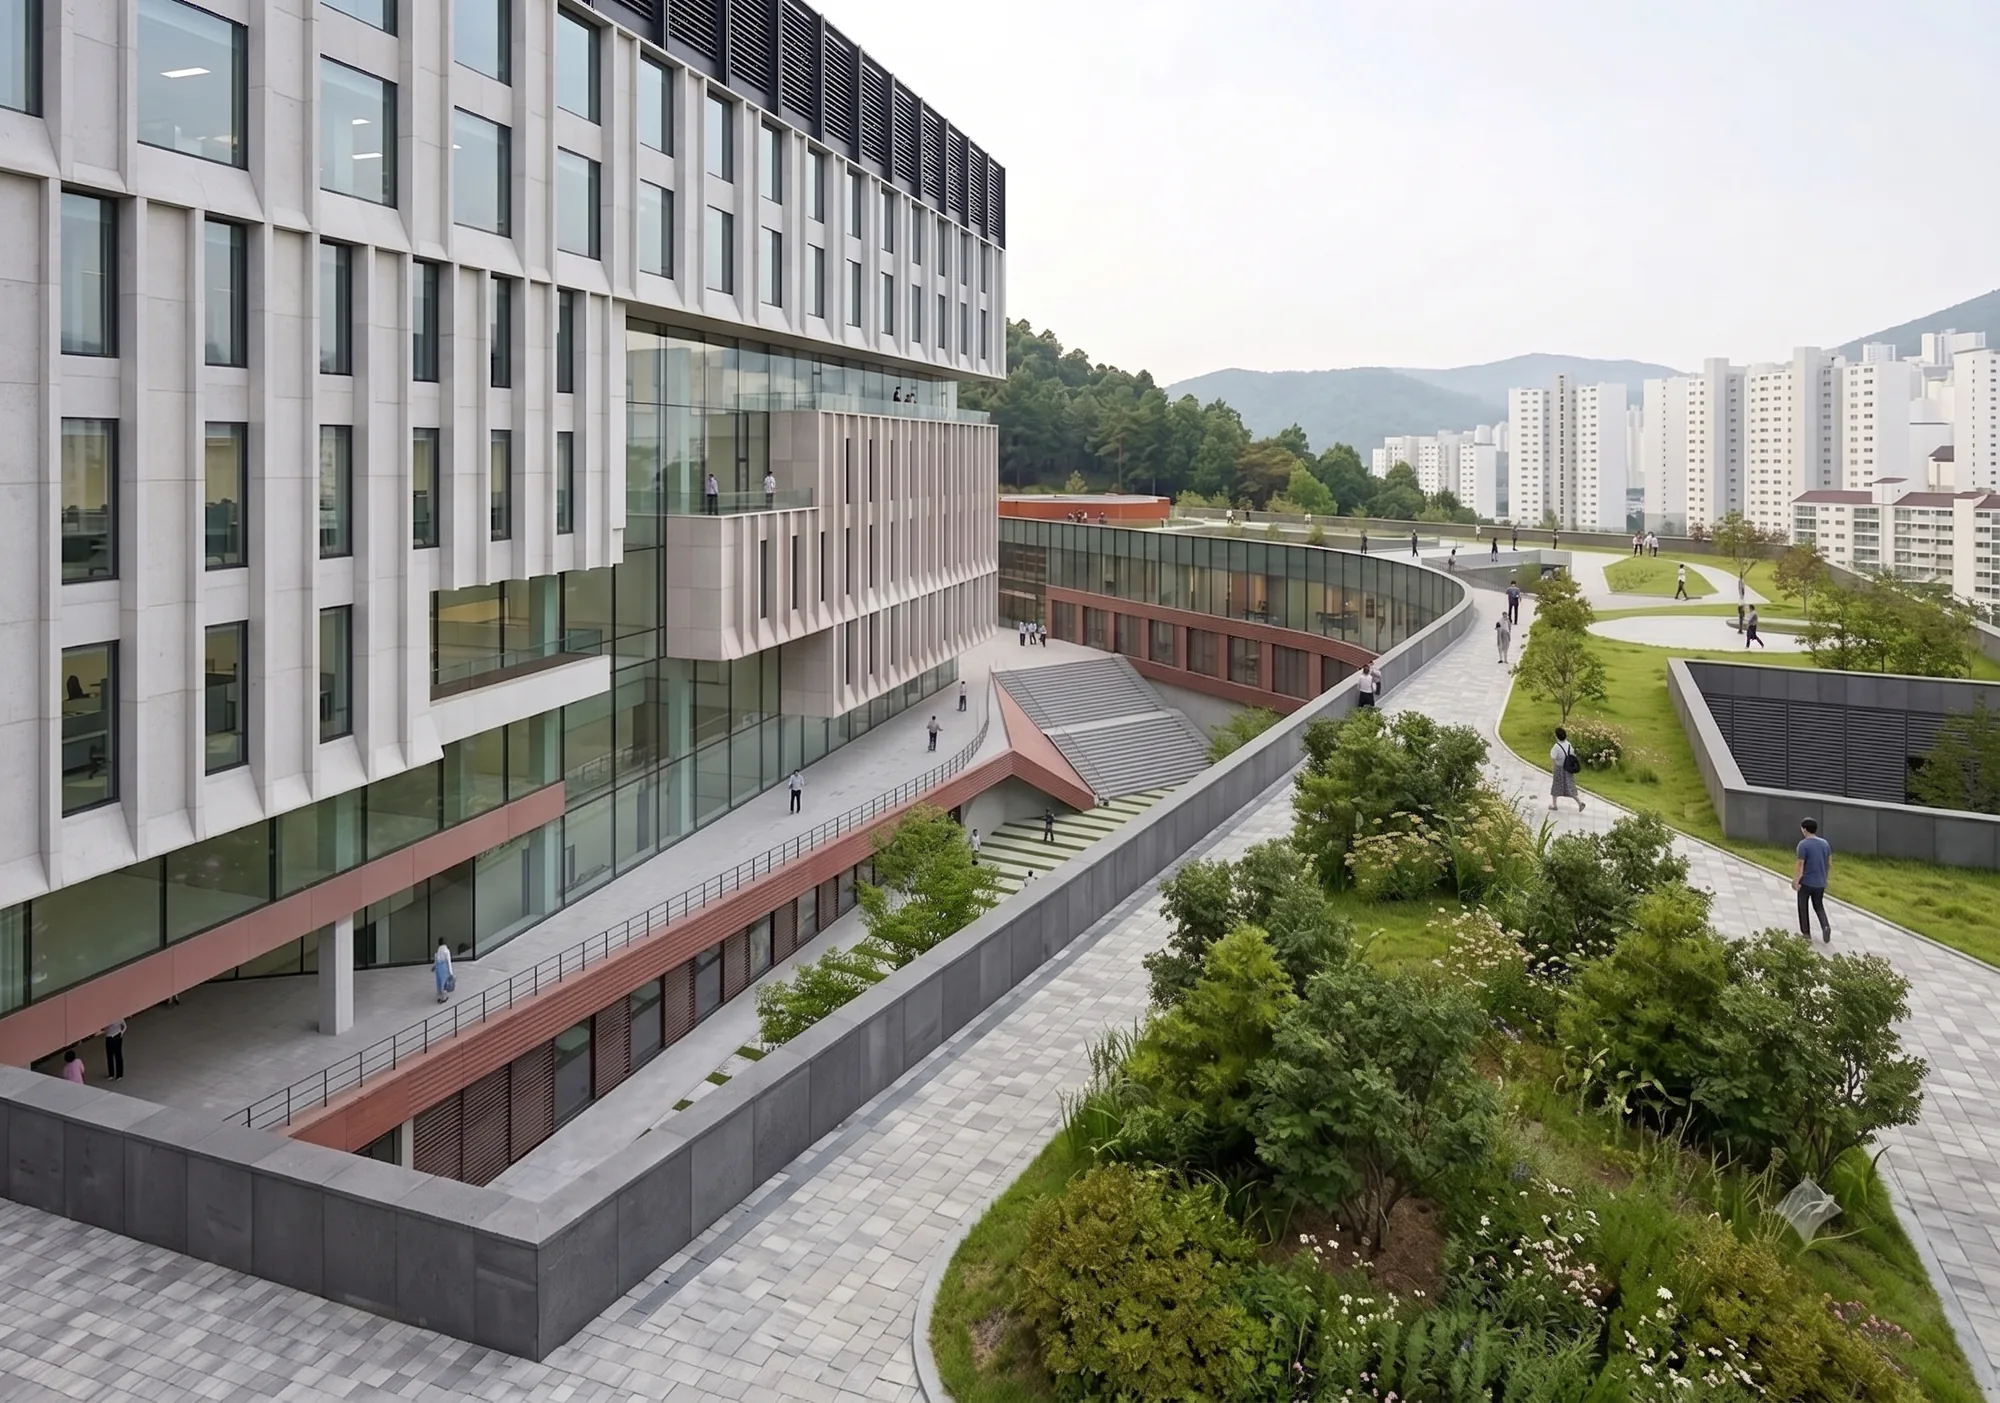
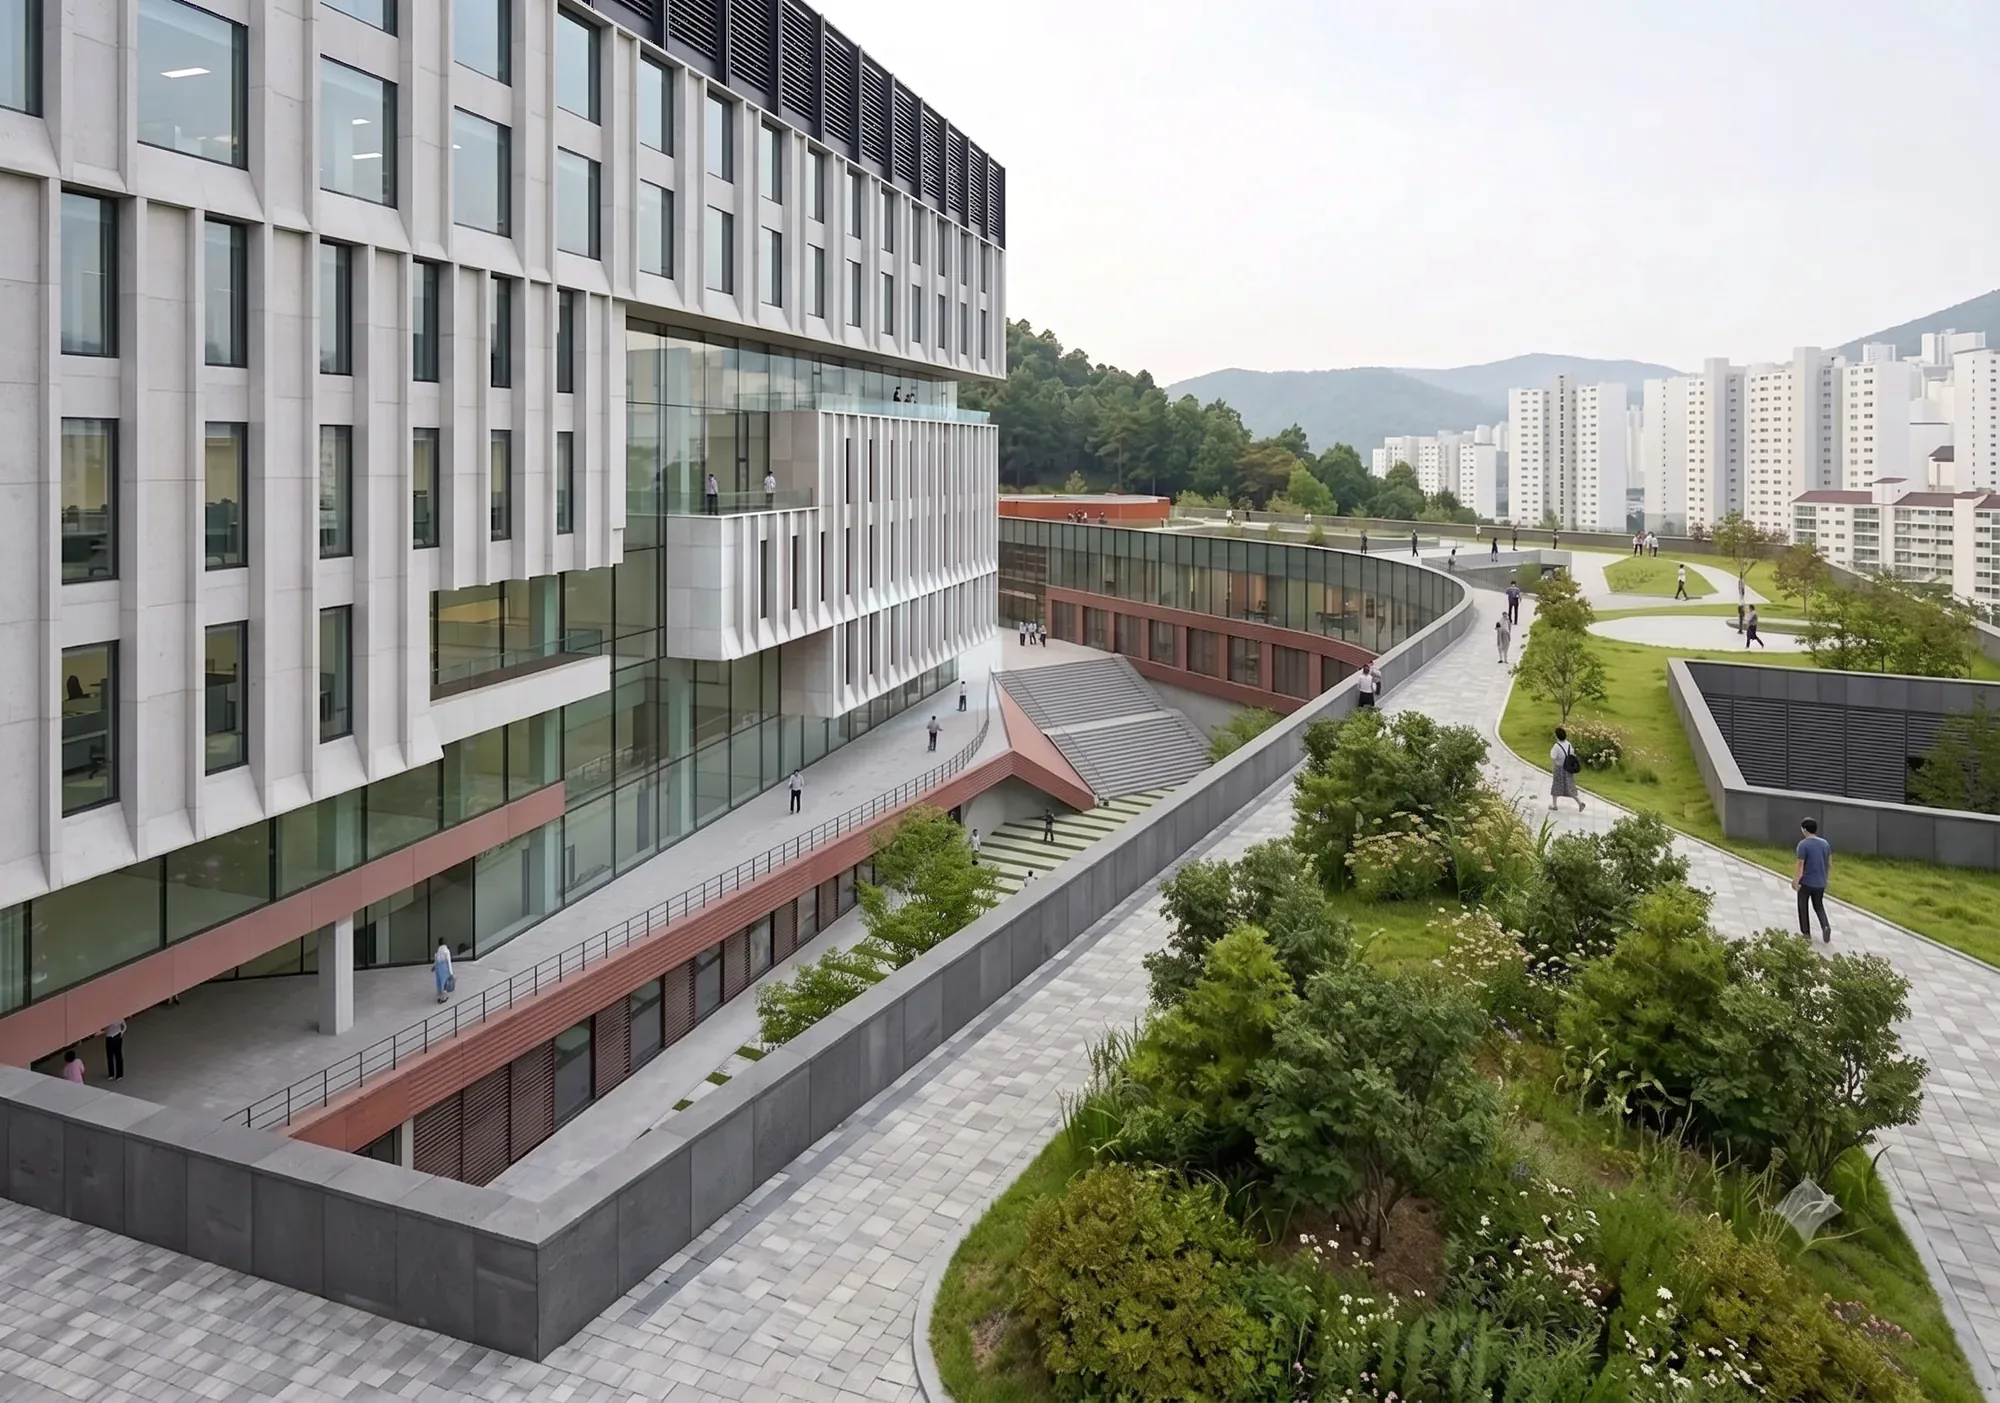
Buk-gu 07: match the projecting volume to the white stone facade
Neutralize the reddish tint on the finned volume in images/15/07.webp so it
matches the rest of the white stone facade. Add a ?v= version to the image
paths updated today (10, 15, 18) so browsers fetch the new files.

Claude-Session: https://claude.ai/code/session_01RUpUrq2wZFvhdtafc6aDPx

Changed region(s): [[0.31, 0.2758, 0.527, 0.521]]

diff --git a/data.js b/data.js
@@ -19,13 +19,13 @@ const projectData = {
             "en": "Metropolitan Office of Busan"
         },
         "images": [
-            "images/18/1.webp",
-            "images/18/2.webp",
-            "images/18/3.webp",
-            "images/18/4.webp",
-            "images/18/5.webp",
-            "images/18/6.webp",
-            "images/18/7.webp"
+            "images/18/1.webp?v=20261021",
+            "images/18/2.webp?v=20261021",
+            "images/18/3.webp?v=20261021",
+            "images/18/4.webp?v=20261021",
+            "images/18/5.webp?v=20261021",
+            "images/18/6.webp?v=20261021",
+            "images/18/7.webp?v=20261021"
         ],
         "desc": {
             "ko": "본 설계안은 부산 해운대수목원의 생태적 가치와 주변 지형적 특성을 반영하여, 자연과 사람이 유기적으로 연결되는 친환경적이고 입체적인 공간을 제안합니다. 대지가 가진 지형 조건과 전면도로, 배후 녹지 간의 흐름을 분석하여 세 개의 호(ARC) 형태의 기하학적 볼륨을 구성하고, 지형을 재조직하는 인공 대지를 통해 자연과 건축이 부드럽게 융화되도록 계획했습니다. 이를 통해 수목원의 첫인상을 결정하는 전면공간은 방문객을 환영하는 개방적이고 역동적인 공공 영역으로 조성하고, 배후 영역은 연구실과 관리사무소 등 기능적 공간을 효율적으로 배치하여 공공성과 업무의 독립성을 동시에 확보했습니다. </br></br>내부 공간은 전면 로비를 중심으로 다양한 기능 조직이 유기적으로 둘러싸는 레이아웃을 적용하여 공간의 입체적 확장성과 시각적 연속성을 극대화했습니다. 특히 코르텐 강판, 로이복층유리, 알루미늄 시트 등 물성 간의 대비를 활용한 입면 계획과 곡면형 지붕 디자인은 주변 자연환경 속에서 세련된 긴장감과 독창적인 건축미를 선사합니다. 더불어 태양광 발전 시스템, 전열 교환기, 지열 냉난방 시스템 등 친환경 설비 계획과 3차원 내진설계를 적용하여 경제성과 지속가능성을 모두 갖춘 미래지향적 수목원 연구·관리 시설을 완성합니다.",
@@ -135,16 +135,16 @@ const projectData = {
             "en": "Buk-gu, Busan"
         },
         "images": [
-            "images/15/02.webp",
-            "images/15/01.webp",
-            "images/15/03.webp",
-            "images/15/04.webp",
-            "images/15/05.webp",
-            "images/15/06.webp",
-            "images/15/07.webp",
-            "images/15/08.webp",
-            "images/15/09.gif",
-            "images/15/11.webp"
+            "images/15/02.webp?v=20261021",
+            "images/15/01.webp?v=20261021",
+            "images/15/03.webp?v=20261021",
+            "images/15/04.webp?v=20261021",
+            "images/15/05.webp?v=20261021",
+            "images/15/06.webp?v=20261021",
+            "images/15/07.webp?v=20261021",
+            "images/15/08.webp?v=20261021",
+            "images/15/09.gif?v=20261021",
+            "images/15/11.webp?v=20261021"
         ],
         "desc": {
             "ko": "기존의 통합 구청사는 본청, 보건소, 의회 등의 시설들이 각자의 매스를 지닌 채 분리된 형태로 계획되어 왔습니다. 이러한 배치는 시설별 독립성을 유지하기 위해 위계적인 볼륨 체계를 가지게 되며, 내부공간의 다양성은 본청사에 한정되고 각 시설 간의 연계는 외부공간을 통해서만 이루어집니다. 또한 분리된 매스의 조합은 넓은 지하주차장과 시설별 코어, 경사면의 과도한 절토 등 계획적·기술적 어려움을 낳아 주어진 공사비를 충족하기 어렵습니다.</br></br>본 제안은 그러한 배치의 전형성이 주어진 경사지에서 최적화될 수 있는가라는 물음에서 시작되었습니다. 청사의 상징성을 구현하는 높은 볼륨과 경사면 위에 안정적으로 형성된 포디엄의 조합을 통해 본청, 보건소, 구의회의 세 시설을 통합하고, 포디엄 상부의 옥상정원과 두 매스 사이의 중앙광장이 각기 다른 성격의 오픈스페이스를 구성합니다. 이러한 매스 구성은 경사지형에 자연스럽게 내려앉아 주변과 어울리며 내외부 공간의 확장성을 긴밀하게 작동시킵니다.</br></br>지형에서 이어지는 포디엄과 그 위로 솟아오른 타워의 병치는 내외부 공간의 연계성을 구축하며 낙동강변의 새로운 랜드마크가 됩니다. 본청 타워를 관통하는 아트리움의 수직성과 중정 및 옥상정원을 가로지르는 외부공간의 수평성이 교차하며 공간의 확장성을 부여합니다.",
@@ -327,15 +327,15 @@ const projectData = {
             "en": "Sedona, AZ, US"
         },
         "images": [
-            "images/10/01.webp",
-            "images/10/02.webp",
-            "images/10/03.webp",
-            "images/10/04.webp",
-            "images/10/05.webp",
-            "images/10/06.webp",
-            "images/10/07.webp",
-            "images/10/08.webp",
-            "images/10/09.webp"
+            "images/10/01.webp?v=20261021",
+            "images/10/02.webp?v=20261021",
+            "images/10/03.webp?v=20261021",
+            "images/10/04.webp?v=20261021",
+            "images/10/05.webp?v=20261021",
+            "images/10/06.webp?v=20261021",
+            "images/10/07.webp?v=20261021",
+            "images/10/08.webp?v=20261021",
+            "images/10/09.webp?v=20261021"
         ],
         "desc": {
             "ko": "",
@@ -1017,7 +1017,7 @@ const ArchiveData = {
         "year": "2026",
         "client": { "ko": "부산광역시", "en": "Busan Metropolitan Office" },
         "program": { "ko": "업무시설", "en": "Office" },
-        "image": "images/18/1.webp"
+        "image": "images/18/1.webp?v=20261021"
     },
     "36": {
         "title": { "ko": "동래구 제2국민체육센터", "en": "2nd Public Sports Center in DongRae-Gu" },
@@ -1073,7 +1073,7 @@ const ArchiveData = {
         "year": "2025",
         "client": { "ko": "부산광역시 북구", "en": "Buk-Gu, Busan" },
         "program": { "ko": "공공업무시설", "en": "Public Office" },
-        "image": "images/15/01.webp"
+        "image": "images/15/01.webp?v=20261021"
     },
     "28": {
         "title": { "ko": "망미체육센터", "en": "Mangmi Sports Center" },
